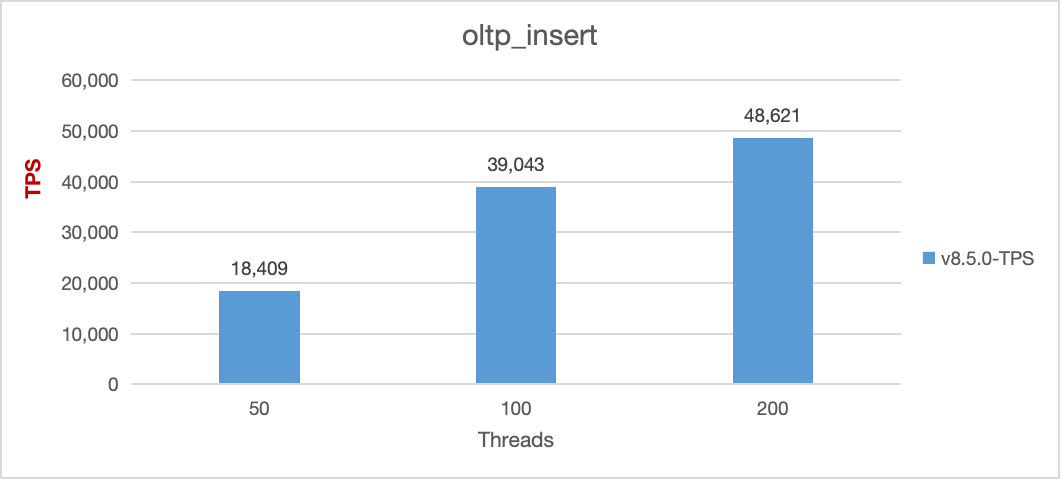
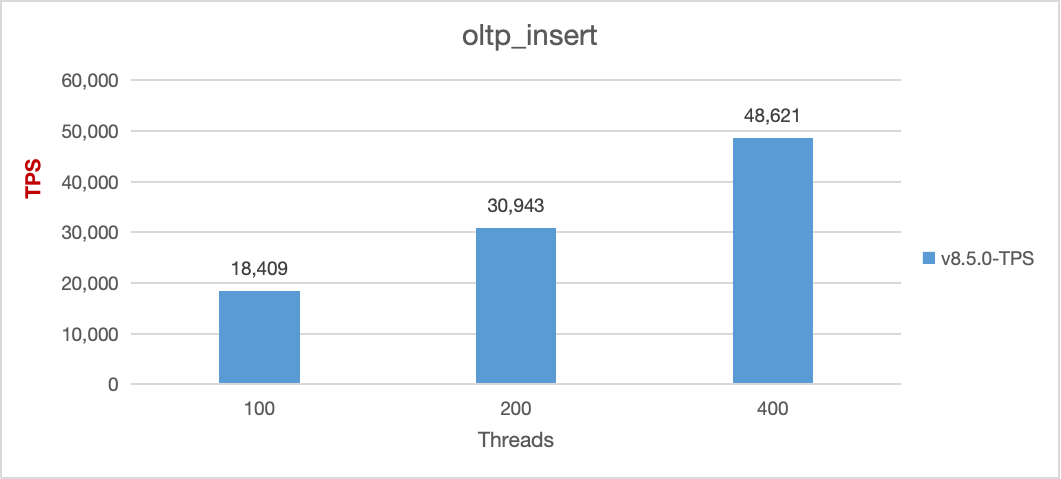
Preview PR https://github.com/pingcap/docs/pull/19727 and this preview is triggered from commit https://github.com/pingcap/docs/pull/19727/commits/026412cc092dde7a3a08913610040f3029e83d80

diff --git a/markdown-pages/en/tidbcloud/master/tidb-cloud/v8.5-performance-highlights.md b/markdown-pages/en/tidbcloud/master/tidb-cloud/v8.5-performance-highlights.md
@@ -1,6 +1,191 @@
 ---
-title: TiDB Cloud Performance Highlights
-summary: Introduce the performance highlights for a TiDB Cloud Dedicated cluster with the TiDB version of v8.5.0.
+title: TiDB Cloud Performance Highlights for TiDB v8.5.0
+summary: Introduce the performance improvements for TiDB Cloud Dedicated clusters with the TiDB version of v8.5.0.
 ---
 
 # TiDB Cloud Performance Highlights for TiDB v8.5.0
+
+[TiDB v8.5.0](https://docs.pingcap.com/tidb/v8.5/release-8.5.0) is an important Long-Term Support (LTS) release, which delivers notable improvements in performance, scalability, and operational efficiency.
+
+This document outlines the performance improvements in v8.5.0 across the following areas:
+
+- General performance
+- Hotspot reads with excessive MVCC versions
+- IO latency jitter
+- Batch processing
+- TiKV scaling performance
+
+## General performance
+
+With the default Region size increased from 96 MiB to 256 MiB and some other improvements in v8.5, significant performance improvements were observed:
+
+- `oltp_insert` performance improves by 27%.
+- `Analyze` performance shows a major boost of approximately 45%.
+
+## Hotspot reads with excessive MVCC versions
+
+### Challenge
+
+In some user scenarios, the following challenges might occur:
+
+- Frequent version updates: in some workloads, the data is updated and read very frequently.
+- Long retention of historical versions: to meet business requirements, such as supporting flashback to specific time points, users might configure overly long GC (Garbage Collection) times (such as 24 hours). This results in an excessive accumulation of Multi-Version Concurrency Control (MVCC) versions, which significantly reduces query efficiency.
+
+The accumulation of MVCC versions creates a large gap between the requested data and the processed data, leading to degraded read performance.
+
+### Solution
+
+To address this issue, TiKV introduces [In-Memory Engine (IME)](https://docs.pingcap.com/tidb/stable/tikv-in-memory-engine). By caching the latest versions in memory, TiKV reduces the impact of historical versions on read performance, significantly improving query efficiency.
+
+### Test environment
+
+- Cluster topology: TiDB (16 vCPU, 32 GiB) \* 1 + TiKV (16 vCPU, 32 GiB) \* 6
+- Cluster configurations:
+
+    ```
+    tikv_configs:
+    [in-memory-engine]
+    enable = true
+    ```
+
+- Dataset: 24 GiB storage size with about 340 Regions, containing frequently updated data
+- Workload: rows requiring scans contain numerous MVCC versions introduced by frequent updates
+
+### Test results
+
+The query latency decreases by 50%, and the throughput increases by 100%.
+
+| Configurations | Duration | Threads | TPS | QPS | Average latency | P95 latency |
+| --- |  --- |  --- |  --- |  --- |  --- |  --- |
+| Disable IME | 3600 s | 10 | 123.8 | 1498.3 | 80.76 | 207.82 |
+| Enable IME | 3600 s | 10 | 238.2 | 2881.5 | 41.99 | 78.60 |
+
+## IO latency jitter
+
+### Challenge
+
+In cloud environments, transient or sustained IO latency fluctuations on cloud disks are a common challenge. These fluctuations can increase request latency, causing timeouts, errors, and disruptions to normal business operations, ultimately degrading service quality.
+
+### Solution
+
+TiDB v8.5 introduces multiple enhancements to address the impact of cloud disk IO jitter on performance. These improvements effectively mitigate the effects of IO latency fluctuations, ensuring more stable and reliable performance.
+
+### Test environment
+
+- Cluster topology: TiDB (32 vCPU, 64 GiB) \* 3 + TiKV (32 vCPU, 64 GiB) \* 6
+- Workload: a read/write ratio of 2:1, with simulated cloud disk IO delays or hangs on one of TiKV nodes
+
+### Test results
+
+The failover time of the IO latency jitter is 30% shorter, and P99/999 latency is reduced by 70% or higher.
+
+- Test results without IO latency jitter improvement
+
+    | Workload | Failover time | QPS drop rate | Maximum latency (P999) | Maximum latency (P99) |
+    | --- |  --- |  --- |  --- |  --- |
+    | IO delay 1 s lasts for 10 mins | 3 mins | 93% | 4.66 s | 929 ms |
+    | IO delay 500 ms lasts for 10 mins | 2 mins | 92% | 7.22 s | 894 ms |
+    | IO delay 100 ms lasts for 10 mins | 3 mins | 80% | 7.53 s | 1.7 s |
+    | IO delay 50 ms lasts for 10 mins | 3 mins | 53% | 1.36 s | 238 ms |
+    | IO delay 10 ms lasts for 10 mins | 3 mins | 18% | 69 ms | 25 ms |
+    | IO delay 5 ms lasts for 10 mins | 2 mins | 29% | 37.9 ms | 10 ms |
+    | IO delay 2 ms lasts for 10 mins | Almost no effect | 1% | 14 ms | 7.9 ms |
+
+- Test results with IO latency jitter improvement
+
+    | Workload | Failover time | QPS drop rate | Maximum latency (P999) | Maximum latency (P99) |
+    | --- |  --- |  --- |  --- |  --- |
+    | IO delay 1 s lasts for 10 mins | 3 mins | 93% | 4.66 s | 929 ms |
+    | IO delay 500 ms lasts for 10 mins | 2 mins | 92% | 7.22 s | 894 ms |
+    | IO delay 100 ms lasts for 10 mins | 3 mins | 80% | 7.53 s | 1.7 s |
+    | IO delay 50 ms lasts for 10 mins | 3 mins | 53% | 1.36 s | 238 ms |
+    | IO delay 10 ms lasts for 10 mins | 3 mins | 18% | 69 ms | 25 ms |
+    | IO delay 5 ms lasts for 10 mins | 2 mins | 29% | 37.9 ms | 10 ms |
+    | IO delay 2 ms lasts for 10 mins | Almost no effect | 1% | 14 ms | 7.9 ms |
+
+## Batch processing
+
+### Challenge
+
+Large-scale transactions, such as bulk data updates, system migrations, and ETL workflows, involve processing millions of rows and are vital for supporting critical operations. While TiDB excels as a distributed SQL database, handling such transactions at scale presents two significant challenges:
+
+- Memory limits: in releases earlier than TiDB 8.1, all transaction mutations are held in memory throughout the transaction lifecycle, which strains resources and reduces performance. For operations involving millions of rows, this could lead to excessive memory usage and, in some cases, Out of Memory (OOM) errors when resources are insufficient.
+
+- Performance slowdowns: managing large in-memory buffers relies on red-black trees, which introduces computational overhead. As buffers grew, their operations slowed down due to the *O(N log N)* complexity inherent in these data structures.
+
+### Solution
+
+These challenges highlighted a clear opportunity to improve scalability, reduce complexity, and enhance reliability. With the rise of modern data workloads, TiDB introduces the [Pipelined DML](https://docs.pingcap.com/tidb/stable/system-variables#tidb_dml_type-new-in-v800) feature, designed to change how large transactions are handled and improve resource utilization and overall performance.
+
+### Test environment
+
+- Cluster topology: TiDB (16 vCPU, 32 GiB) \* 1 + TiKV (16 vCPU, 32 GiB) \* 3
+- Dataset: YCSB non-clustered table with 10 million rows (about 10 GiB of data). Primary keys are selectively removed in certain tests to isolate and evaluate the impact of hotspot patterns.
+- Workload: DML operations including `INSERT`, `UPDATE`, and `DELETE`.
+
+### Test results
+
+The execution speed increases by 2x, the maximum TiDB memory usage decreases by 50%, and the TiKV write flow becomes much smoother.
+
+- Latency (in seconds)
+
+    | Workload (10 GiB) | Standard DML | Pipelined DML | Improvement |
+    | --- |  --- |  --- |  --- |
+    | YCSB-insert-10M | 368 | 159 | 131.45% |
+    | YCSB-update-10M | 255 | 131 | 94.66% |
+    | YCSB-delete-10M | 136 | 42 | 223.81% |
+
+- TiDB memory usage peak (GiB)
+
+    | Workload (10 GiB) | Standard DML | Pipelined DML | Reduction |
+    | --- |  --- |  --- |  --- |
+    | YCSB-insert-10M | 25.8 | 12 | 53.49% |
+    | YCSB-update-10M | 23.1 | 12.9 | 44.16% |
+    | YCSB-delete-10M | 10.1 | 8.08 | 20.00% |
+
+## TiKV scaling performance
+
+### Challenge
+
+Horizontal scaling is a core capability of TiKV, enabling the system to scale in or out as needed. As business demands grow and the number of tenants increases, TiDB clusters experience rapid growth in databases, tables, and data volume. Scaling out TiKV nodes quickly becomes essential to maintaining service quality.
+
+In some scenarios, TiDB hosts a large number of databases and tables. When these tables are small or empty, TiKV accumulates a significant number of tiny regions, especially when the number of tables grows to a large scale (such as 1 million or more). These small regions introduce a substantial maintenance burden, increase resource overhead, and reduce efficiency.
+
+### Solution
+
+To address this issue, TiDB v8.5 improves the performance of merging small regions, reducing internal overhead and improving resource utilization. Additionally, TiDB v8.5 includes several other enhancements to further improve TiKV scaling performance.
+
+### Test environment
+
+#### Merging small regions
+
+- Cluster topology: TiDB (16 vCPU, 32 GiB) \* 1 + TiKV (16 vCPU, 32 GiB) \* 3
+- Dataset: nearly 1 million small tables, with the size of each table < 2 MiB
+- Workload: automatic merging of small Regions
+
+#### Scaling out TiKV nodes
+
+- Cluster topology: TiDB (16 vCPU, 32 GiB) \* 1 + TiKV (16 vCPU, 32 GiB) \* 4
+- Dataset: TPC-C dataset with 20k warehouses
+- Workload: scaling out TiKV nodes from 4 to 7
+
+### Test results
+
+The small Region merge speed improves by about 10 times.
+
+| Metric | Without improvement | With improvement |
+| --- |  --- |  --- |
+| Region merging duration (hrs) | 20 | 2 |
+
+TiKV scaling performance improves by over 40%, and TiKV node scaling out duration gains a 30% reduction.
+
+| Metric | Without improvement | With improvement |
+| --- |  --- |  --- |
+| TiKV scaling out duration (hrs) | 5 | 3.5 |
+
+## Benchmark
+
+In addition to the preceding test data, you can refer to the following benchmark results for v8.5 performance:
+
+- [TPC-C performance test report](/tidb-cloud/v8.5-performance-benchmarking-with-tpcc.md)
+- [Sysbench performance test report](/tidb-cloud/v8.5-performance-benchmarking-with-sysbench.md)
